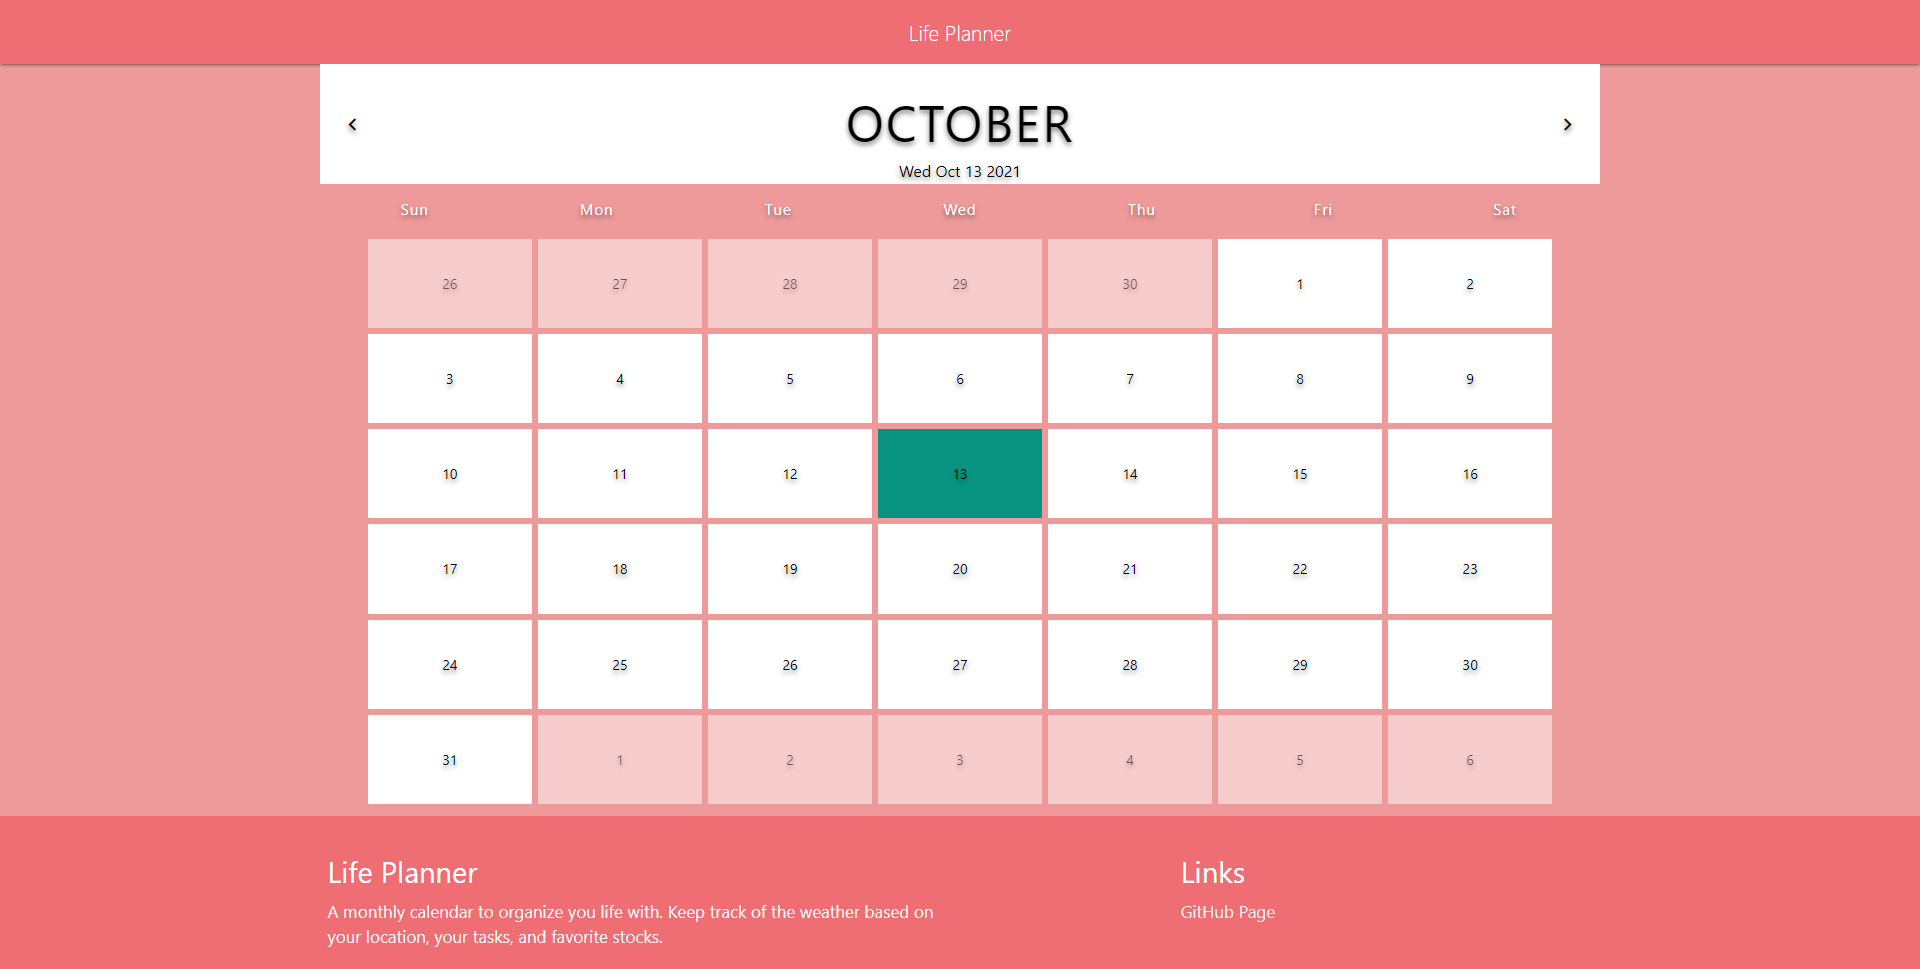
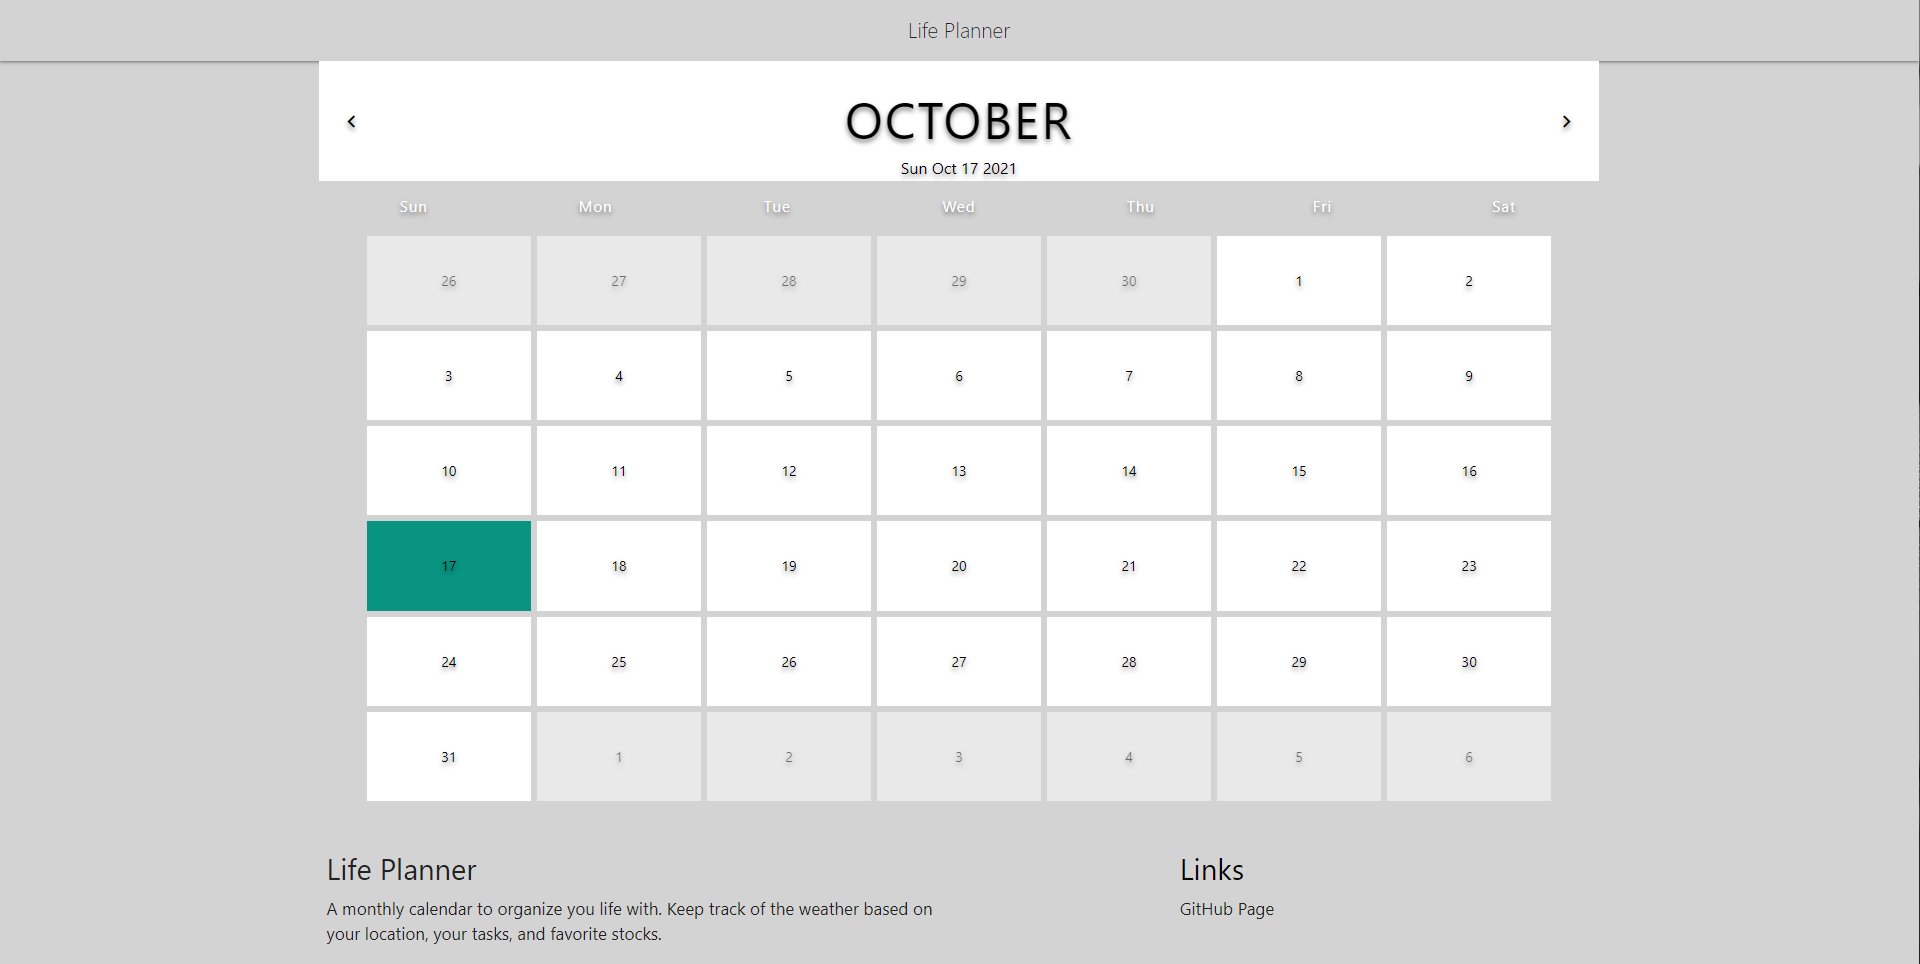
changed colors

diff --git a/index.html b/index.html
@@ -26,15 +26,14 @@
     src="https://cdnjs.cloudflare.com/ajax/libs/moment.js/2.27.0/moment.min.js"
   ></script>
   </head>
-  <!--Materialize class for background-color-->
-  <body class="red lighten-3">
+  <body >
   
   <main>
     
 
     <!--Materialize Navbar language markup-->
     <nav>
-      <div class="nav-wrapper"><a class="brand-logo center thin">Life Planner</a></div>
+      <div class="nav-wrapper" id="greyNav"><a class="brand-logo center thin grey-text text-darken-4">Life Planner</a></div>
     </nav>
 
     <!--Monthly Calendar-->
@@ -106,13 +105,13 @@
   <div class="container">
     <div class="row">
       <div class="col l6 s12">
-        <h3 class="white-text">Life Planner</h3>
-        <p class="grey-text text-lighten-4">A monthly calendar to organize you life with. Keep track of the weather based on your location, your tasks, and favorite stocks.</p>
+        <h3 class="grey-text text-darken-4">Life Planner</h3>
+        <p class="grey-text text-darken-4">A monthly calendar to organize you life with. Keep track of the weather based on your location, your tasks, and favorite stocks.</p>
       </div>
       <div class="col l4 offset-l2 s12">
-        <h3 class="white-text">Links</h3>
+        <h3>Links</h3>
         <ul>
-          <li><a class="grey-text text-lighten-3" href="https://github.com/schristinelagrange/lifePlanner">GitHub Page</a></li>
+          <li><a class="grey-text text-darken-4" href="https://github.com/schristinelagrange/lifePlanner">GitHub Page</a></li>
         </ul>
       </div>
     </div>

diff --git a/assets/css/style.css b/assets/css/style.css
@@ -8,6 +8,10 @@
   html {
     font-size: 62.5%;
   }
+
+  body{
+    background-color: lightgray;
+  }
   
   .calendar {
     
@@ -156,7 +160,7 @@ footer a {
   position: relative;
   display: flex;
   min-width: 100%;
-  border-bottom: 1px solid #ee6e73;
+  border-bottom: 1px solid lightgray;
 }
 .delEvent{
   position: absolute;
@@ -167,4 +171,11 @@ footer a {
   position: absolute;
   bottom: 0px;
   width: 100%;
+  background-color: lightgray;
+  color: black;
+}
+
+#greyNav{
+  background-color: lightgray;
+  color: black;
 }
